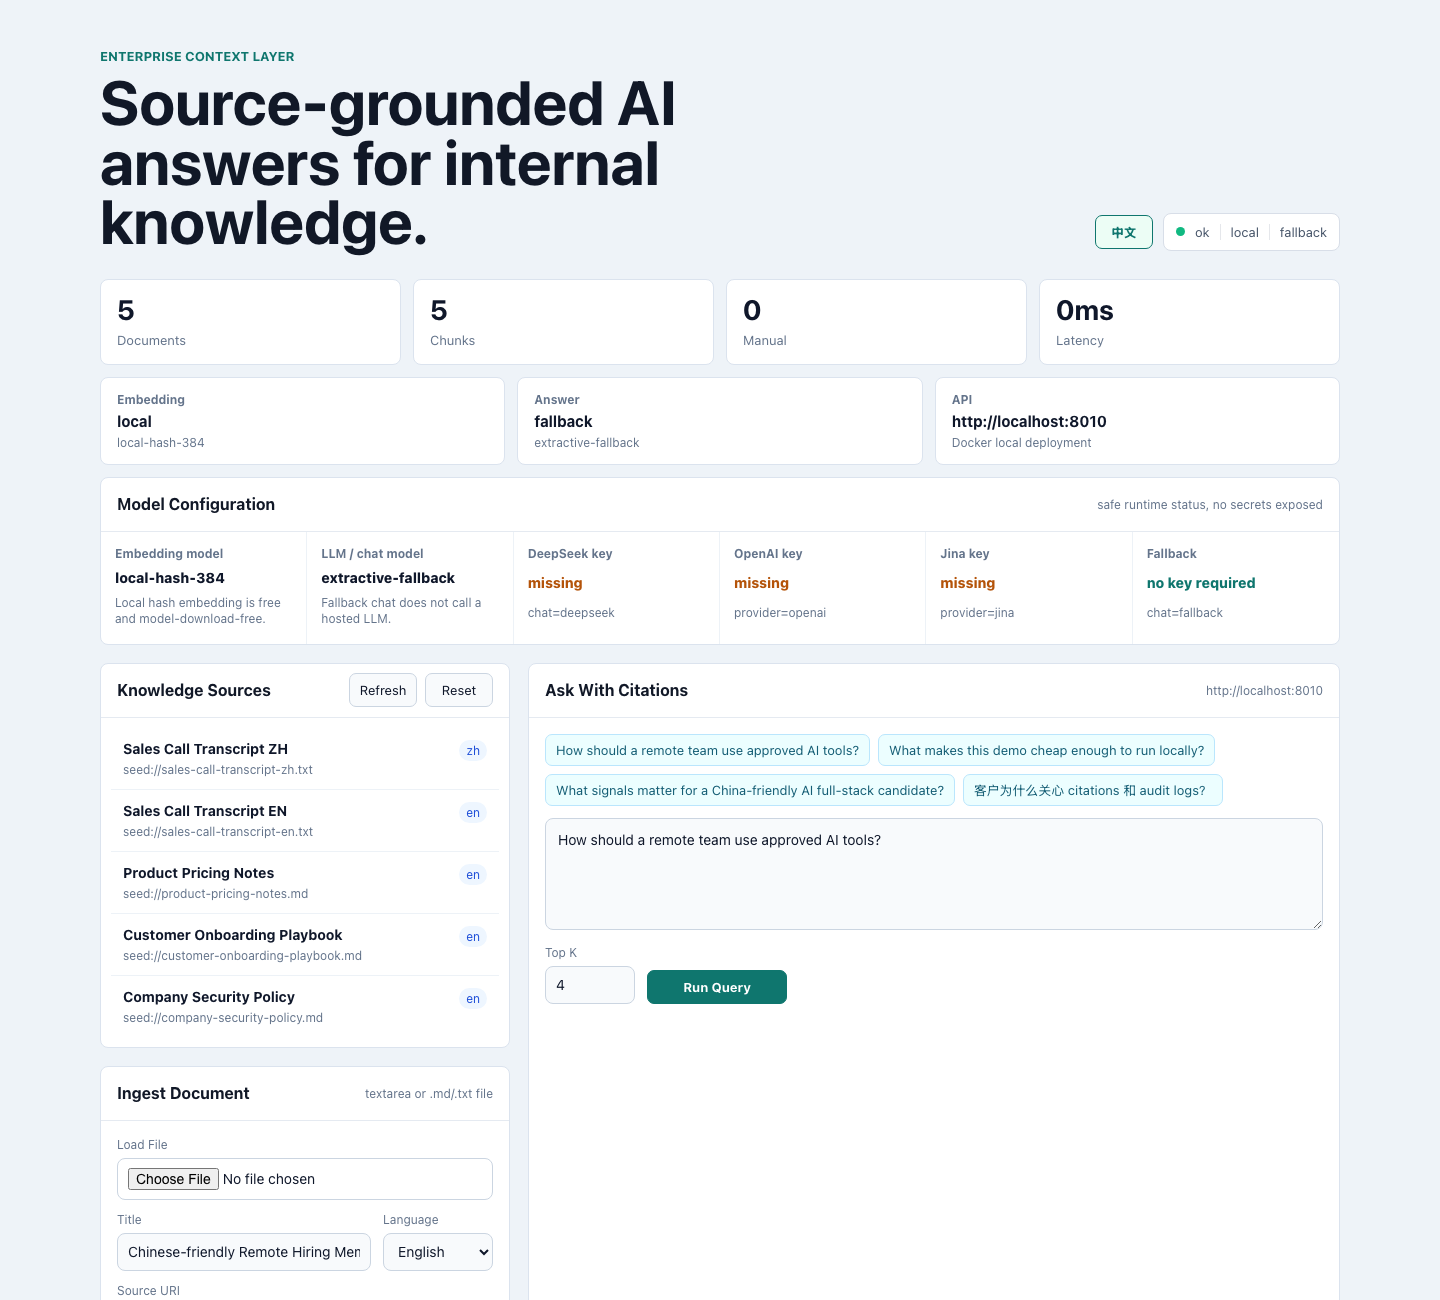
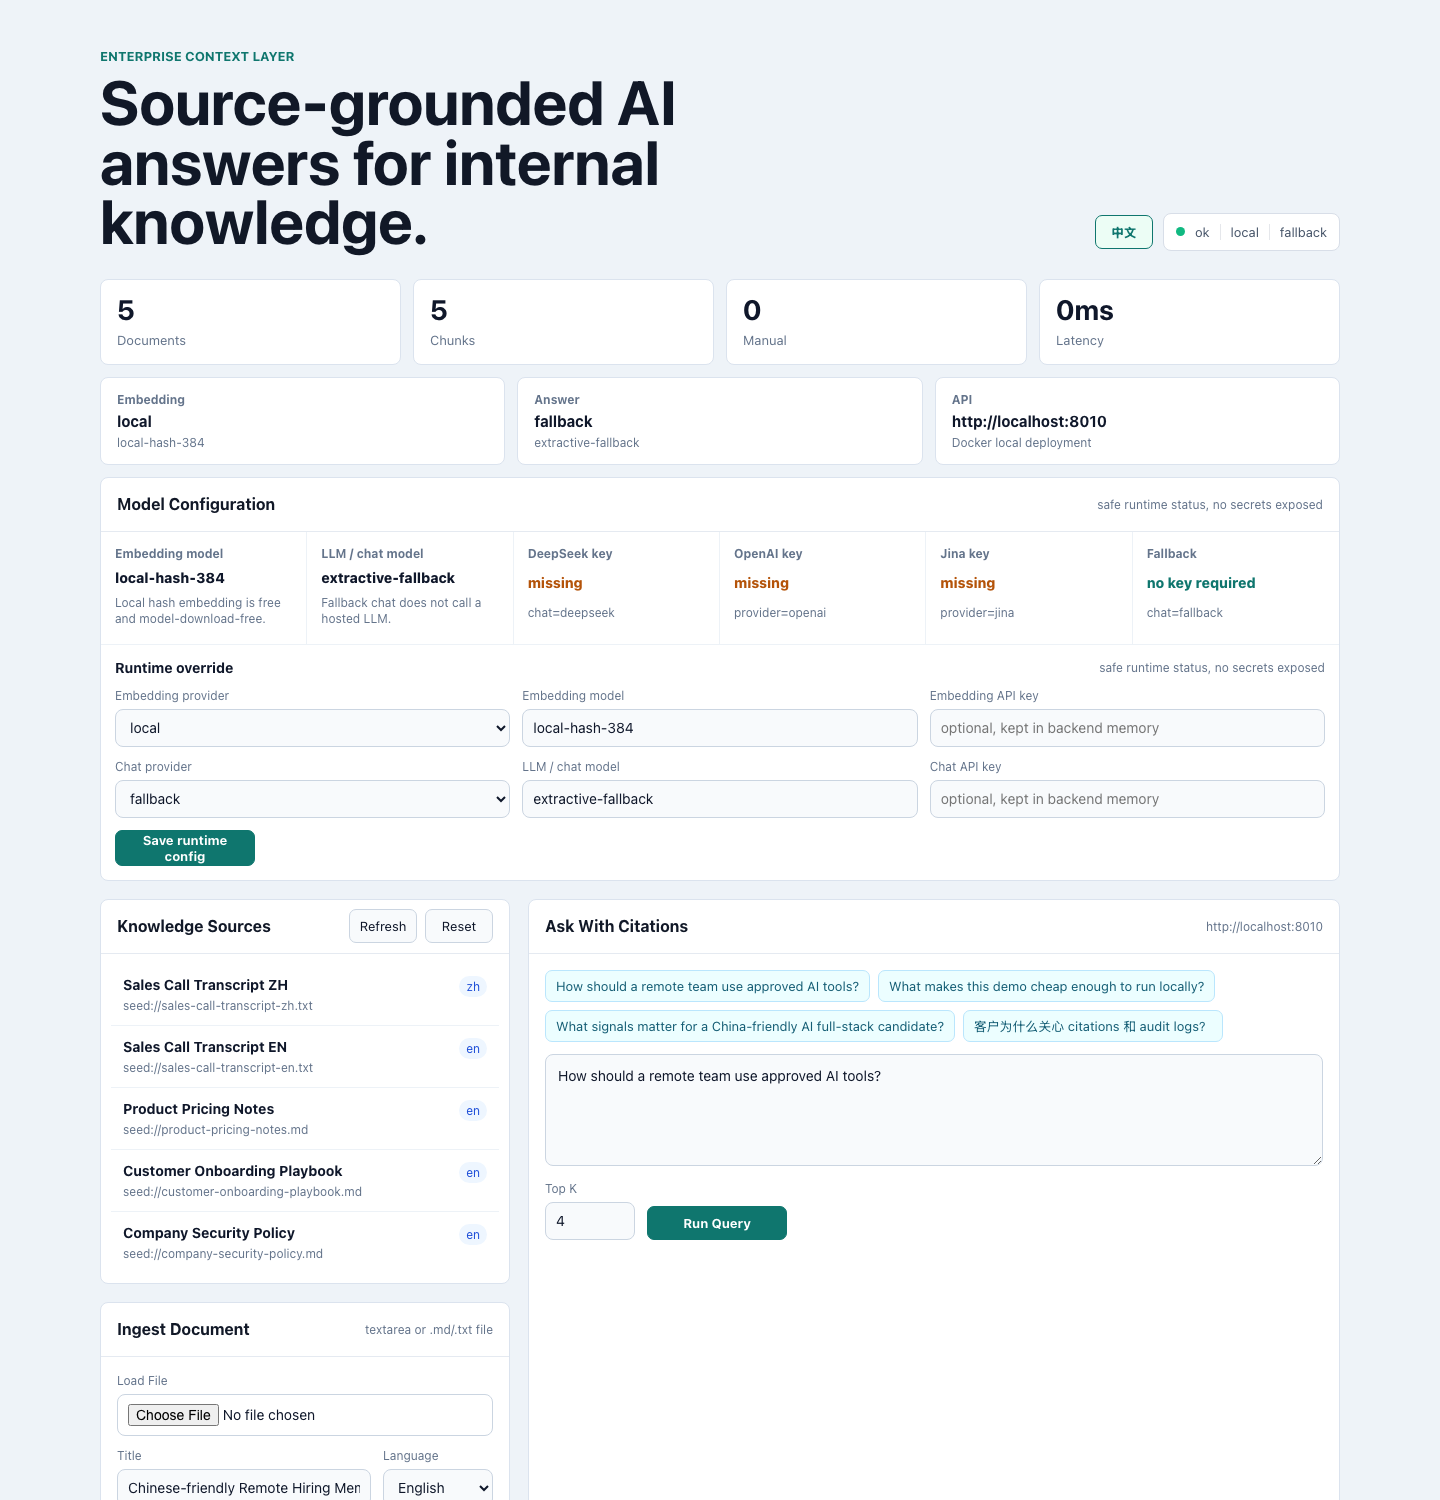
Add runtime model configuration UI

diff --git a/src/App.tsx b/src/App.tsx
@@ -40,6 +40,16 @@ const COPY = {
       deepseekKey: 'DeepSeek key',
       openaiKey: 'OpenAI key',
       jinaKey: 'Jina key',
+      runtimeForm: 'Runtime override',
+      embeddingProvider: 'Embedding provider',
+      embeddingApiKey: 'Embedding API key',
+      chatProvider: 'Chat provider',
+      chatApiKey: 'Chat API key',
+      save: 'Save runtime config',
+      saving: 'Saving...',
+      keyPlaceholder: 'optional, kept in backend memory',
+      updated: 'Runtime config updated. Reset or re-ingest documents after changing embedding providers.',
+      updateFailed: 'Runtime config update failed',
     },
     messages: {
       titleContentRequired: 'Title and content are required',
@@ -162,6 +172,16 @@ For an AI full-stack demo, the most relevant signals are RAG implementation, vec
       deepseekKey: 'DeepSeek key',
       openaiKey: 'OpenAI key',
       jinaKey: 'Jina key',
+      runtimeForm: '运行时覆盖',
+      embeddingProvider: 'Embedding provider',
+      embeddingApiKey: 'Embedding API key',
+      chatProvider: 'Chat provider',
+      chatApiKey: 'Chat API key',
+      save: '保存运行时配置',
+      saving: '保存中...',
+      keyPlaceholder: '可选，仅保存在后端内存',
+      updated: '运行时配置已更新。切换 embedding provider 后请 Reset 或重新导入文档。',
+      updateFailed: '运行时配置更新失败',
     },
     messages: {
       titleContentRequired: '标题和内容不能为空',
@@ -270,6 +290,15 @@ type RuntimeConfig = {
   default_top_k: number
 }
 
+type RuntimeConfigUpdate = {
+  embedding_provider: string
+  embedding_model: string
+  embedding_api_key?: string
+  chat_provider: string
+  chat_model: string
+  chat_api_key?: string
+}
+
 type DocumentSummary = {
   id: string
   title: string
@@ -331,8 +360,15 @@ function App() {
   const [ingestContent, setIngestContent] = useState<string>(COPY.en.defaultIngestContent)
   const [ingestSourceUri, setIngestSourceUri] = useState('manual://recording-memo')
   const [selectedFileName, setSelectedFileName] = useState<string | null>(null)
+  const [embeddingProvider, setEmbeddingProvider] = useState('local')
+  const [embeddingModel, setEmbeddingModel] = useState('local-hash-384')
+  const [embeddingApiKey, setEmbeddingApiKey] = useState('')
+  const [chatProvider, setChatProvider] = useState('fallback')
+  const [chatModel, setChatModel] = useState('extractive-fallback')
+  const [chatApiKey, setChatApiKey] = useState('')
   const [loading, setLoading] = useState(false)
   const [mutating, setMutating] = useState(false)
+  const [configSaving, setConfigSaving] = useState(false)
   const [error, setError] = useState<string | null>(null)
   const [notice, setNotice] = useState<string | null>(null)
 
@@ -355,6 +391,10 @@ function App() {
     ])
     setHealth(nextHealth)
     setConfig(nextConfig)
+    setEmbeddingProvider(nextConfig.embedding_provider)
+    setEmbeddingModel(nextConfig.embedding_model)
+    setChatProvider(nextConfig.chat_provider)
+    setChatModel(nextConfig.chat_model)
     setDocuments(nextDocuments)
     setAuditLogs(nextLogs)
   }
@@ -467,6 +507,42 @@ function App() {
       setError(err instanceof Error ? err.message : copy.messages.resetFailed)
     } finally {
       setMutating(false)
+    }
+  }
+
+  async function saveRuntimeConfig() {
+    setConfigSaving(true)
+    setError(null)
+    setNotice(null)
+    const payload: RuntimeConfigUpdate = {
+      embedding_provider: embeddingProvider,
+      embedding_model: embeddingModel,
+      chat_provider: chatProvider,
+      chat_model: chatModel,
+    }
+    if (embeddingApiKey.trim()) {
+      payload.embedding_api_key = embeddingApiKey.trim()
+    }
+    if (chatApiKey.trim()) {
+      payload.chat_api_key = chatApiKey.trim()
+    }
+    try {
+      const nextConfig = await fetchJson<RuntimeConfig>('/config', {
+        method: 'PATCH',
+        body: JSON.stringify(payload),
+      })
+      setConfig(nextConfig)
+      setEmbeddingProvider(nextConfig.embedding_provider)
+      setEmbeddingModel(nextConfig.embedding_model)
+      setChatProvider(nextConfig.chat_provider)
+      setChatModel(nextConfig.chat_model)
+      setEmbeddingApiKey('')
+      setChatApiKey('')
+      setNotice(copy.modelConfig.updated)
+    } catch (err) {
+      setError(err instanceof Error ? err.message : copy.modelConfig.updateFailed)
+    } finally {
+      setConfigSaving(false)
     }
   }
 
@@ -584,6 +660,74 @@ function App() {
             <span className="key-ok">{copy.modelConfig.noKeyRequired}</span>
             <p>chat=fallback</p>
           </article>
+        </div>
+        <div className="runtime-form">
+          <div className="runtime-title">
+            <h3>{copy.modelConfig.runtimeForm}</h3>
+            <span>{copy.modelConfig.subtitle}</span>
+          </div>
+          <div className="runtime-fields">
+            <label>
+              <span>{copy.modelConfig.embeddingProvider}</span>
+              <select
+                value={embeddingProvider}
+                onChange={(event) => {
+                  const provider = event.target.value
+                  setEmbeddingProvider(provider)
+                  if (provider === 'local') setEmbeddingModel('local-hash-384')
+                  if (provider === 'openai') setEmbeddingModel('text-embedding-3-small')
+                  if (provider === 'jina') setEmbeddingModel('jina-embeddings-v3')
+                }}
+              >
+                <option value="local">local</option>
+                <option value="openai">openai</option>
+                <option value="jina">jina</option>
+              </select>
+            </label>
+            <label>
+              <span>{copy.modelConfig.embeddingModel}</span>
+              <input value={embeddingModel} onChange={(event) => setEmbeddingModel(event.target.value)} />
+            </label>
+            <label>
+              <span>{copy.modelConfig.embeddingApiKey}</span>
+              <input
+                type="password"
+                value={embeddingApiKey}
+                placeholder={copy.modelConfig.keyPlaceholder}
+                onChange={(event) => setEmbeddingApiKey(event.target.value)}
+              />
+            </label>
+            <label>
+              <span>{copy.modelConfig.chatProvider}</span>
+              <select
+                value={chatProvider}
+                onChange={(event) => {
+                  const provider = event.target.value
+                  setChatProvider(provider)
+                  setChatModel(provider === 'deepseek' ? 'deepseek-chat' : 'extractive-fallback')
+                }}
+              >
+                <option value="fallback">fallback</option>
+                <option value="deepseek">deepseek</option>
+              </select>
+            </label>
+            <label>
+              <span>{copy.modelConfig.chatModel}</span>
+              <input value={chatModel} onChange={(event) => setChatModel(event.target.value)} />
+            </label>
+            <label>
+              <span>{copy.modelConfig.chatApiKey}</span>
+              <input
+                type="password"
+                value={chatApiKey}
+                placeholder={copy.modelConfig.keyPlaceholder}
+                onChange={(event) => setChatApiKey(event.target.value)}
+              />
+            </label>
+          </div>
+          <button type="button" className="primary runtime-save" onClick={saveRuntimeConfig} disabled={configSaving}>
+            {configSaving ? copy.modelConfig.saving : copy.modelConfig.save}
+          </button>
         </div>
       </section>
 

diff --git a/src/App.css b/src/App.css
@@ -201,6 +201,40 @@ p {
   color: #b45309;
 }
 
+.runtime-form {
+  border-top: 1px solid #edf2f7;
+  padding: 14px;
+}
+
+.runtime-title {
+  display: flex;
+  gap: 12px;
+  align-items: center;
+  justify-content: space-between;
+  margin-bottom: 12px;
+}
+
+.runtime-title h3 {
+  color: #0f172a;
+  font-size: 14px;
+}
+
+.runtime-title span {
+  color: #64748b;
+  font-size: 12px;
+}
+
+.runtime-fields {
+  display: grid;
+  grid-template-columns: repeat(3, minmax(0, 1fr));
+  gap: 12px;
+}
+
+.runtime-save {
+  width: 190px;
+  margin-top: 12px;
+}
+
 .message {
   margin-bottom: 18px;
   padding: 10px 12px;
@@ -664,6 +698,10 @@ label span {
     grid-template-columns: repeat(2, minmax(0, 1fr));
   }
 
+  .runtime-fields {
+    grid-template-columns: repeat(2, minmax(0, 1fr));
+  }
+
   .model-grid article {
     border-right: 0;
     border-bottom: 1px solid #edf2f7;
@@ -730,6 +768,14 @@ label span {
 
   .model-grid {
     grid-template-columns: 1fr;
+  }
+
+  .runtime-fields {
+    grid-template-columns: 1fr;
+  }
+
+  .runtime-save {
+    width: 100%;
   }
 
   .model-grid article:nth-last-child(-n + 2) {

diff --git a/docs/testing-checklist.md b/docs/testing-checklist.md
@@ -24,16 +24,18 @@ npm run dev
 1. Open `http://127.0.0.1:5174/`.
 2. Confirm provider bar shows `local`, `fallback`, and `http://localhost:8010`.
 3. Confirm Model Configuration shows `local-hash-384`, `extractive-fallback`, and missing hosted provider keys.
-4. Confirm the UI defaults to English.
-5. Toggle Chinese and confirm key controls, panels, architecture notes, model config, and testing notes are translated.
-6. Toggle back to English for recording consistency.
-7. Run `How should a remote team use approved AI tools?`.
-8. Confirm answer, citations, Retrieval Debug, and Audit Trail update.
-9. Load `docs/sample-remote-hiring-memo.md` or another `.md/.txt` file into the ingest form.
-10. Ingest it and confirm the document appears in Knowledge Sources.
-11. Ask a question that should retrieve the newly ingested document.
-12. Delete the manual document.
-13. Use Reset and confirm the seed documents return.
+4. Change Chat provider to `deepseek`, keep the key empty, save, and confirm the status changes while the key still shows missing.
+5. Change Chat provider back to `fallback` and save.
+6. Confirm the UI defaults to English.
+7. Toggle Chinese and confirm key controls, panels, architecture notes, model config, and testing notes are translated.
+8. Toggle back to English for recording consistency.
+9. Run `How should a remote team use approved AI tools?`.
+10. Confirm answer, citations, Retrieval Debug, and Audit Trail update.
+11. Load `docs/sample-remote-hiring-memo.md` or another `.md/.txt` file into the ingest form.
+12. Ingest it and confirm the document appears in Knowledge Sources.
+13. Ask a question that should retrieve the newly ingested document.
+14. Delete the manual document.
+15. Use Reset and confirm the seed documents return.
 
 ## Known Limits
 

diff --git a/docs/development.md b/docs/development.md
@@ -76,6 +76,8 @@ DEEPSEEK_API_KEY=your_key_here
 
 The frontend reads `/config` and displays the active embedding model, chat model, and whether provider keys are configured. The API never returns secret values.
 
+The frontend can also call `PATCH /config` to update runtime provider settings for local demos. Overrides are kept in backend memory only and reset when the API container restarts.
+
 ## Debug Surface
 
 The frontend displays retrieval debug data from the `citations` array returned by `POST /query`:

diff --git a/README.md b/README.md
@@ -16,6 +16,8 @@ The default local demo is intentionally zero-key:
 - Chat / LLM: `extractive-fallback`
 - Hosted LLM calls: disabled by default
 
+You can change runtime provider settings directly in the web UI. Values are stored in backend memory for the current local session only; API keys are never returned by `/config` and are not written to `.env`.
+
 To use a hosted LLM, configure the backend `.env` and restart the API:
 
 ```bash
